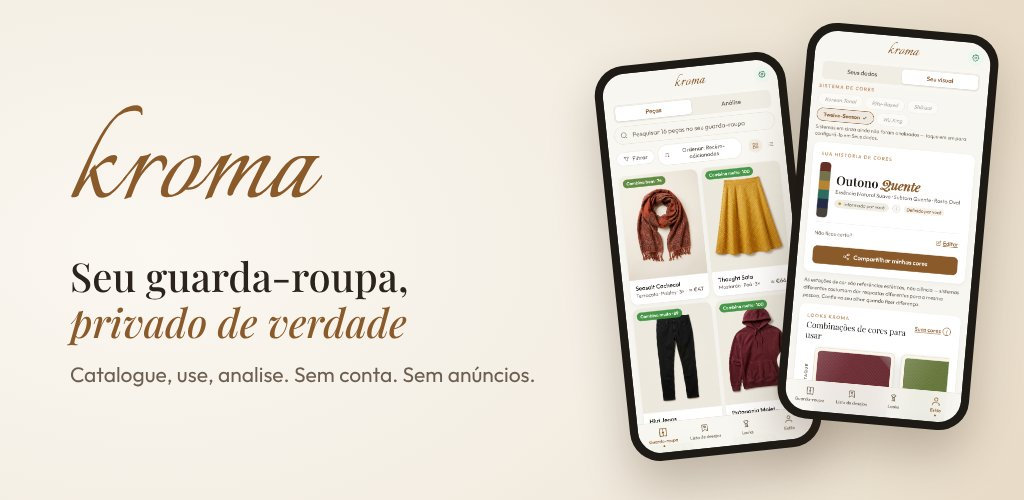
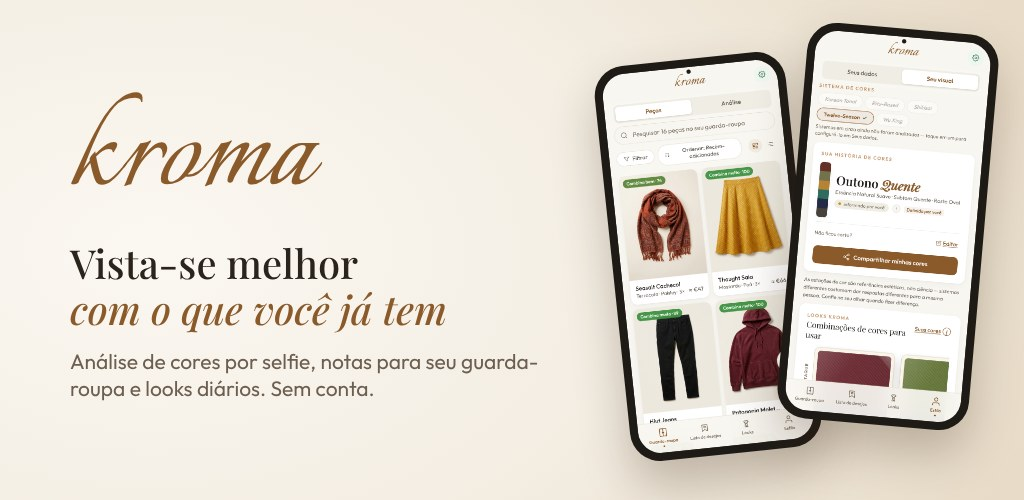
Share images: Dress better with what you own (#17)
The link preview (Play feature graphic) said "Your wardrobe, private by
design", which no longer matches the benefit-first homepage. Regenerated
in all ten languages from wardrobe-app's store-assets generator.

Claude-Session: https://claude.ai/code/session_0185LauLsVvxGLgGiXXcHG62

diff --git a/index.html b/index.html
@@ -35,7 +35,7 @@ i18n: home
 <meta property="og:image" content="https://kroma.fit/images/og-image.jpg">
 <meta property="og:image:width" content="1024">
 <meta property="og:image:height" content="500">
-<meta property="og:image:alt" content="The kroma wordmark beside two phones showing the kroma wardrobe grid and colour analysis. Your wardrobe, private by design.">
+<meta property="og:image:alt" content="The kroma wordmark beside two phones showing the kroma wardrobe grid and colour analysis. Dress better with what you own.">
 <meta property="og:locale" content="en_GB">
 
 <!-- Twitter / X card.  summary_large_image gets the bigger preview when an
@@ -44,7 +44,7 @@ i18n: home
 <meta name="twitter:title" content="kroma: Wardrobe App &amp; Free Colour Analysis Quiz">
 <meta name="twitter:description" content="Find the colours that suit you from a selfie, score the clothes you own and want against your palette, and get outfits for the weather and your day. No account: your wardrobe stays on your phone.">
 <meta name="twitter:image" content="https://kroma.fit/images/og-image.jpg">
-<meta name="twitter:image:alt" content="The kroma wordmark beside two phones showing the kroma wardrobe grid and colour analysis. Your wardrobe, private by design.">
+<meta name="twitter:image:alt" content="The kroma wordmark beside two phones showing the kroma wardrobe grid and colour analysis. Dress better with what you own.">
 
 <!-- JSON-LD structured data.  Tells Google + other engines this page is
      about a software app, enabling rich-result rendering in search
